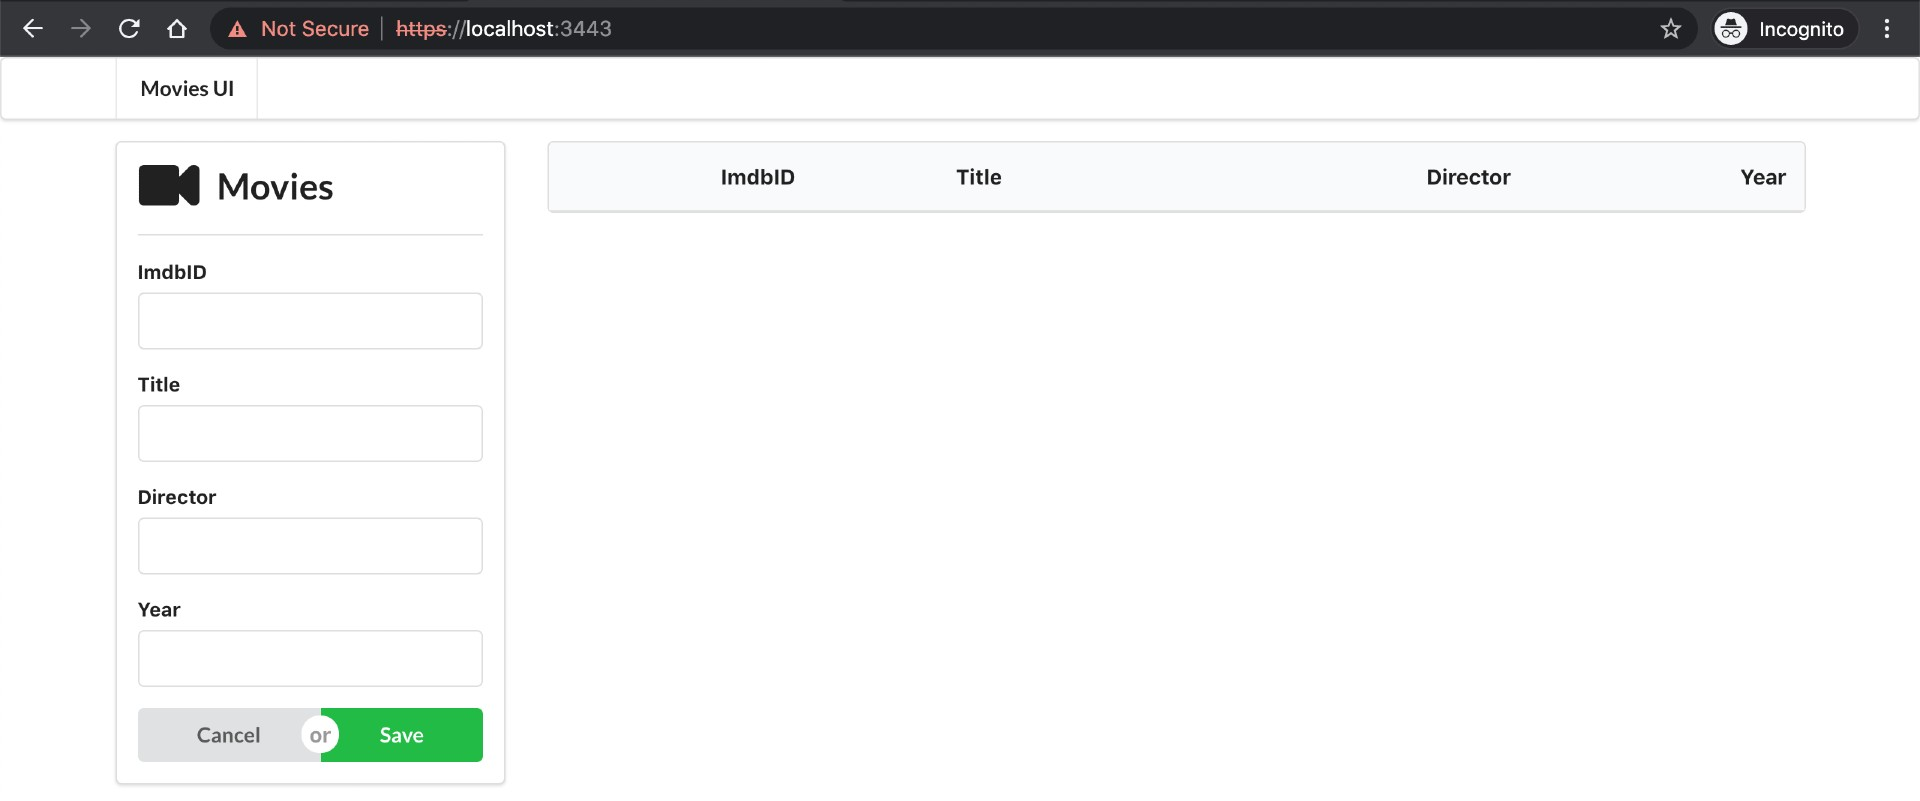
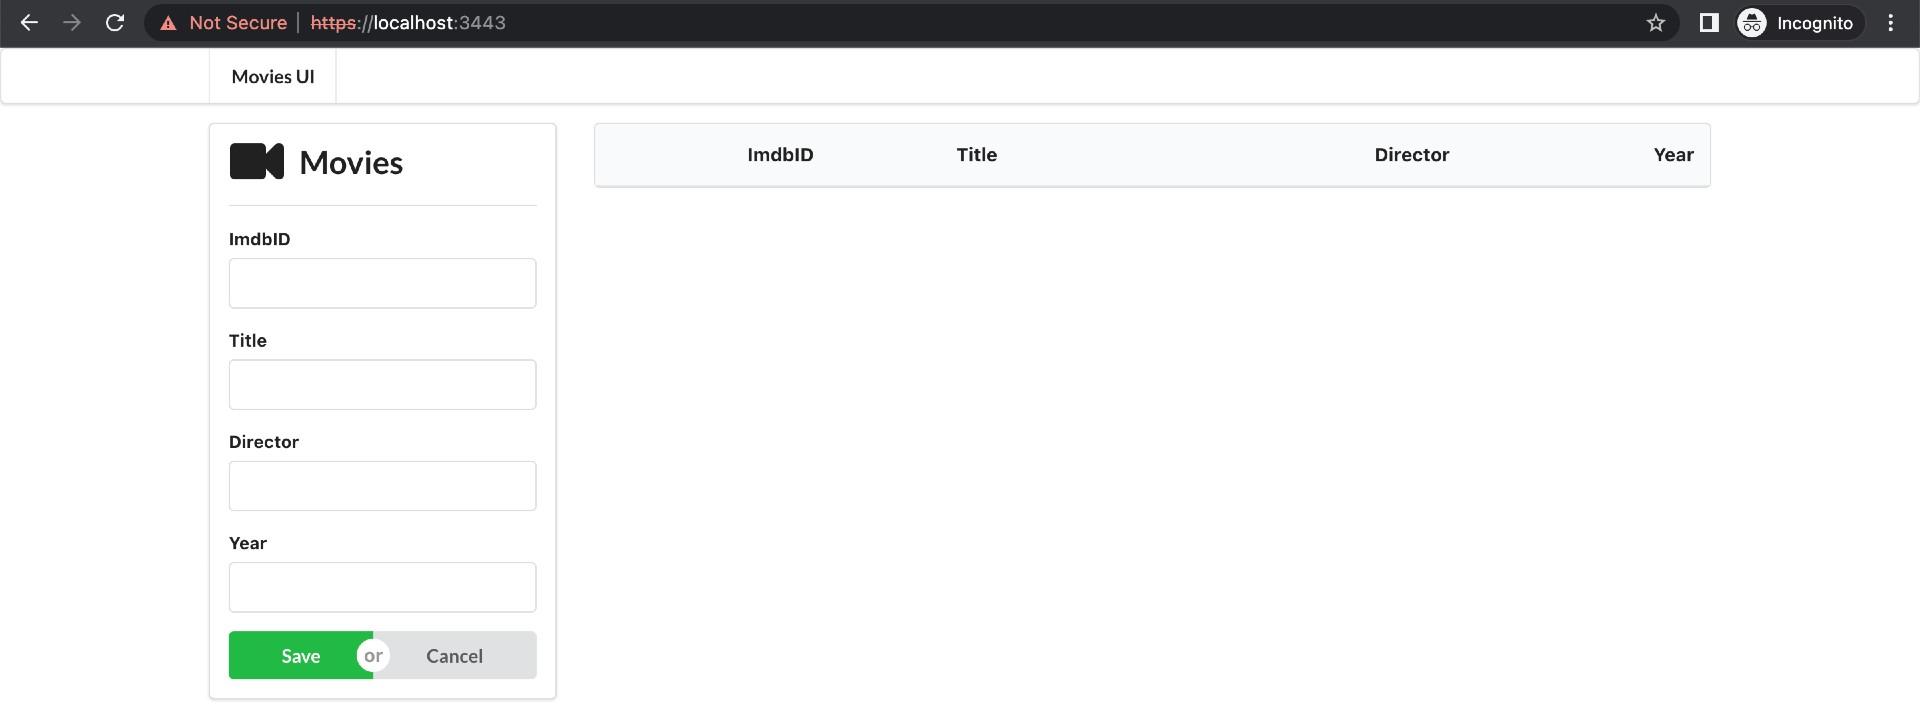
project upgrade - upgrade to spring-boot 3.0.2; - upgrade to springdoc-openapi 2.0.2; - upgrade to mapstruct 1.5.3.Final; - upgrade to spring-shell 3.0.0; - upgrade some npm packages; - update README.

diff --git a/movies-ui/src/components/movies/MovieForm.js b/movies-ui/src/components/movies/MovieForm.js
@@ -38,9 +38,9 @@ function MovieForm({ form, handleChange, handleSaveMovie, clearForm }) {
         error={form.yearError}
       />
       <Button.Group fluid>
-        <Button onClick={clearForm}>Cancel</Button>
-        <Button.Or />
         <Button positive onClick={handleSaveMovie}>Save</Button>
+        <Button.Or />
+        <Button onClick={clearForm}>Cancel</Button>
       </Button.Group>
     </Form>
   )

diff --git a/movies-shell/src/main/java/com/ivanfranchin/moviesshell/config/RestTemplateConfig.java b/movies-shell/src/main/java/com/ivanfranchin/moviesshell/config/RestTemplateConfig.java
@@ -1,10 +1,16 @@
 package com.ivanfranchin.moviesshell.config;
 
-import org.apache.http.client.HttpClient;
-import org.apache.http.conn.ssl.SSLConnectionSocketFactory;
-import org.apache.http.conn.ssl.TrustSelfSignedStrategy;
-import org.apache.http.impl.client.HttpClients;
-import org.apache.http.ssl.SSLContextBuilder;
+import org.apache.hc.client5.http.classic.HttpClient;
+import org.apache.hc.client5.http.impl.classic.HttpClientBuilder;
+import org.apache.hc.client5.http.impl.io.PoolingHttpClientConnectionManager;
+import org.apache.hc.client5.http.socket.ConnectionSocketFactory;
+import org.apache.hc.client5.http.socket.PlainConnectionSocketFactory;
+import org.apache.hc.client5.http.ssl.SSLConnectionSocketFactory;
+import org.apache.hc.client5.http.ssl.TrustSelfSignedStrategy;
+import org.apache.hc.core5.http.URIScheme;
+import org.apache.hc.core5.http.config.Registry;
+import org.apache.hc.core5.http.config.RegistryBuilder;
+import org.apache.hc.core5.ssl.SSLContextBuilder;
 import org.springframework.beans.factory.annotation.Value;
 import org.springframework.context.annotation.Bean;
 import org.springframework.context.annotation.Configuration;
@@ -42,10 +48,14 @@ public class RestTemplateConfig {
                 .loadKeyMaterial(keyStore, trustStorePassword)
                 .build();
 
-        SSLConnectionSocketFactory socketFactory = new SSLConnectionSocketFactory(sslContext);
+        Registry<ConnectionSocketFactory> socketRegistry = RegistryBuilder.<ConnectionSocketFactory>create()
+                .register(URIScheme.HTTPS.getId(), new SSLConnectionSocketFactory(sslContext))
+                .register(URIScheme.HTTP.getId(), new PlainConnectionSocketFactory())
+                .build();
 
-        HttpClient httpClient = HttpClients.custom()
-                .setSSLSocketFactory(socketFactory)
+        HttpClient httpClient = HttpClientBuilder.create()
+                .setConnectionManager(new PoolingHttpClientConnectionManager(socketRegistry))
+                .setConnectionManagerShared(true)
                 .build();
 
         return new RestTemplate(new HttpComponentsClientHttpRequestFactory(httpClient));

diff --git a/movies-shell/src/main/java/com/ivanfranchin/moviesshell/command/MoviesCommands.java b/movies-shell/src/main/java/com/ivanfranchin/moviesshell/command/MoviesCommands.java
@@ -22,24 +22,24 @@ public class MoviesCommands {
     @ShellMethod("Get all movies")
     public String getMovies() {
         ResponseEntity<String> response = movieApiClient.getMovies();
-        return String.format("%s %s", response.getStatusCodeValue(), response.getBody());
+        return String.format("%s %s", response.getStatusCode(), response.getBody());
     }
 
     @ShellMethod("Get specific movie")
     public String getMovie(String imdbId) {
         ResponseEntity<String> response = movieApiClient.getMovie(imdbId);
-        return String.format("%s %s", response.getStatusCodeValue(), response.getBody());
+        return String.format("%s %s", response.getStatusCode(), response.getBody());
     }
 
     @ShellMethod("Add movie")
     public String addMovie(String imdbId, String title, String director, int year) throws JsonProcessingException {
         ResponseEntity<String> response = movieApiClient.addMovie(imdbId, title, director, year);
-        return String.format("%s %s", response.getStatusCodeValue(), response.getBody());
+        return String.format("%s %s", response.getStatusCode(), response.getBody());
     }
 
     @ShellMethod("Delete movie")
     public String deleteMovie(String imdbId) {
         ResponseEntity<String> response = movieApiClient.deleteMovie(imdbId);
-        return String.format("%s %s", response.getStatusCodeValue(), response.getBody());
+        return String.format("%s %s", response.getStatusCode(), response.getBody());
     }
 }

diff --git a/movies-api/src/main/java/com/ivanfranchin/moviesapi/rest/MoviesController.java b/movies-api/src/main/java/com/ivanfranchin/moviesapi/rest/MoviesController.java
@@ -5,6 +5,7 @@ import com.ivanfranchin.moviesapi.model.Movie;
 import com.ivanfranchin.moviesapi.rest.dto.AddMovieRequest;
 import com.ivanfranchin.moviesapi.rest.dto.MovieResponse;
 import com.ivanfranchin.moviesapi.service.MovieService;
+import jakarta.validation.Valid;
 import lombok.RequiredArgsConstructor;
 import org.springframework.http.HttpStatus;
 import org.springframework.web.bind.annotation.DeleteMapping;
@@ -16,7 +17,6 @@ import org.springframework.web.bind.annotation.RequestMapping;
 import org.springframework.web.bind.annotation.ResponseStatus;
 import org.springframework.web.bind.annotation.RestController;
 
-import javax.validation.Valid;
 import java.util.List;
 import java.util.stream.Collectors;
 

diff --git a/movies-api/src/main/java/com/ivanfranchin/moviesapi/config/SwaggerConfig.java b/movies-api/src/main/java/com/ivanfranchin/moviesapi/config/SwaggerConfig.java
@@ -3,7 +3,7 @@ package com.ivanfranchin.moviesapi.config;
 import io.swagger.v3.oas.models.Components;
 import io.swagger.v3.oas.models.OpenAPI;
 import io.swagger.v3.oas.models.info.Info;
-import org.springdoc.core.GroupedOpenApi;
+import org.springdoc.core.models.GroupedOpenApi;
 import org.springframework.beans.factory.annotation.Value;
 import org.springframework.context.annotation.Bean;
 import org.springframework.context.annotation.Configuration;

diff --git a/movies-api/src/main/java/com/ivanfranchin/moviesapi/rest/dto/AddMovieRequest.java b/movies-api/src/main/java/com/ivanfranchin/moviesapi/rest/dto/AddMovieRequest.java
@@ -1,10 +1,9 @@
 package com.ivanfranchin.moviesapi.rest.dto;
 
 import io.swagger.v3.oas.annotations.media.Schema;
+import jakarta.validation.constraints.NotBlank;
+import jakarta.validation.constraints.Positive;
 import lombok.Data;
-
-import javax.validation.constraints.NotBlank;
-import javax.validation.constraints.Positive;
 
 @Data
 public class AddMovieRequest {

diff --git a/movies-api/src/main/java/com/ivanfranchin/moviesapi/model/Movie.java b/movies-api/src/main/java/com/ivanfranchin/moviesapi/model/Movie.java
@@ -1,9 +1,8 @@
 package com.ivanfranchin.moviesapi.model;
 
+import jakarta.persistence.Entity;
+import jakarta.persistence.Id;
 import lombok.Data;
-
-import javax.persistence.Entity;
-import javax.persistence.Id;
 
 @Data
 @Entity

diff --git a/README.md b/README.md
@@ -44,6 +44,24 @@ The goal of this project is to play with [`HTTPS`](https://en.wikipedia.org/wiki
   
   - To re-enable the security warning saying `Your connection is not private` for `https://localhost:8443/swagger-ui.html`, click `Not Secure` (in the address bar) > `Re-enable warnings`
 
+- **movies-shell**
+
+  - Open a new terminal and navigate to `https-springboot-react/movies-shell` folder
+  
+  - Run the command below to package the `jar`
+    ```
+    ./mvnw clean package -DskipTests
+    ```
+
+  - Run the following command to start `movies-shell`
+    ```
+    ./target/movies-shell-0.0.1-SNAPSHOT.jar
+    ```
+
+  - Sample of the shell interface and execution
+
+    ![movies-shell](documentation/movies-shell.jpeg)
+
 - **movies-ui**
 
   - Open a new terminal and navigate to `https-springboot-react/movies-ui` folder
@@ -69,26 +87,13 @@ The goal of this project is to play with [`HTTPS`](https://en.wikipedia.org/wiki
     Now, you shoud see
 
     ![movies-ui](documentation/movies-ui.jpeg)
+
+    > **Note:** In case `movies-ui` cannot communicate with `movies-api`
+    > - Open `movies-api` Swagger website: https://localhost:8443/swagger-ui.html
+    > - Click `Advanced` > `Proceed to localhost (unsafe)`
+    > - Reload `movies-ui` page
   
   - To re-enable the security warning saying `Your connection is not private` for `https://localhost:3443`, click `Not Secure` (in the address bar) > `Re-enable warnings`
-
-- **movies-shell**
-
-  - Open a new terminal and navigate to `https-springboot-react/movies-shell` folder
-  
-  - Run the command below to package the `jar`
-    ```
-    ./mvnw clean package -DskipTests
-    ```
-
-  - Run the following command to start `movies-shell`
-    ```
-    ./target/movies-shell-0.0.1-SNAPSHOT.jar
-    ```
-
-  - Sample of the shell interface and execution
-
-    ![movies-shell](documentation/movies-shell.jpeg)
 
 ## Shutdown
 
